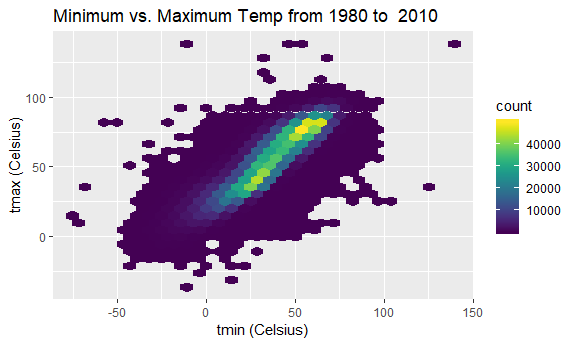
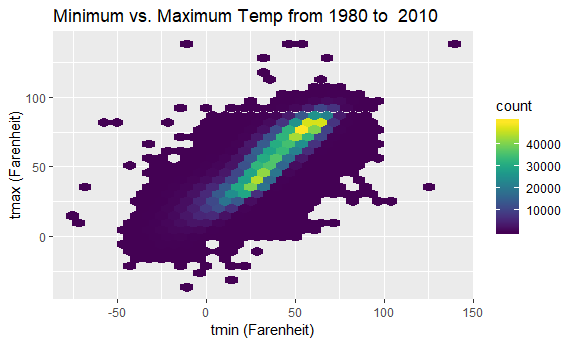
used kable for tables

Changed region(s): [[0.0, 0.3188, 0.0625, 0.6377], [0.3438, 0.9275, 0.5625, 0.9855]]

diff --git a/p8105_hw3_al3851.md b/p8105_hw3_al3851.md
@@ -1,5 +1,7 @@
-p8105\_hw3\_al3851.Rmd
+p8105 HW 3
 ================
+Alina Levine
+2018-10-16
 
 Problem 1
 =========
@@ -11,6 +13,7 @@ library(ggplot2)
 library(tidyverse)
 library(scales)
 library(ggrepel)
+library(viridis)
 
 
 knitr::opts_chunk$set(
@@ -48,18 +51,7 @@ locations_sum_df = brfss_df %>%
 filter(locations_sum_df, n_locations == 7)
 ```
 
-    ## # A tibble: 7 x 2
-    ##   state n_locations
-    ##   <chr>       <int>
-    ## 1 CT              7
-    ## 2 MT              7
-    ## 3 NH              7
-    ## 4 NM              7
-    ## 5 OR              7
-    ## 6 TN              7
-    ## 7 UT              7
-
-CT, MT, NH, NM, OR, TN, and Utah all had responses from 7 locations. 7 locations was the mode of the number of locations per state.
+CT, MT, NH, NM, OR, TN, and UT all had responses from 7 locations. 7 locations was the mode of the number of locations per state.
 
 Spaghetti Plot
 ==============
@@ -82,7 +74,7 @@ ggplot(locations_df, aes(x = year, y = n_observations, color = state)) +
 
 <img src="p8105_hw3_al3851_files/figure-markdown_github/Spaghetti-1.png" width="90%" />
 
-This Spaghetti Plot shows that Florida was an outlier in the number of locations in 2007 and 2010, when there were huge jumps in the number of locations reporting in Florida.
+This spaghetti plot shows that Florida was an outlier in the number of locations in 2007 and 2010. During these years, there were huge jumps in the number of locations reporting in Florida.In 2007 there was a huge fall in the number of locations after the huge jump.
 
 Excellent Table
 ===============
@@ -94,14 +86,22 @@ brfss_excellent_tab = brfss_df %>%
   filter(year %in% c(2002,2006, 2010), state == "NY", response == "Excellent") %>%
   group_by(year) %>%
   summarize(mean = mean(data_value), sd = sd(data_value))
+
+knitr::kable(brfss_excellent_tab)
 ```
+
+|  year|      mean|        sd|
+|-----:|---------:|---------:|
+|  2002|  24.04000|  4.486424|
+|  2006|  22.53333|  4.000833|
+|  2010|  22.70000|  3.567212|
 
 The mean proportion of excellent responses decreased from 2002 to 2006, but then it was about the same in 2010 as in 2002. However, the standard deviation is larger than the difference in mean between 2002 and 2006.
 
 Average Proportion
 ==================
 
-I am rotating the axis labels, so the years do not intersect
+I am creating a dataframe that has the mean proportion for each response category grouped by year and state. When I plot these mean proportions with respect to year, I am rotating the axis labels, so the years do not intersect
 
 ``` r
 brfss_prop_av = brfss_df %>%
@@ -112,15 +112,15 @@ ggplot(brfss_prop_av, aes( x = year, y = mean_prop, color = state)) +
   geom_line() +
   facet_grid(~response) +
   labs(title = "Mean Proportions by Category",
-       x = "year",
-       y = "mean proportion") +
+       x = "Year",
+       y = "Mean Proportion") +
   scale_color_discrete(guide = FALSE) +
   scale_x_continuous(breaks = scales::pretty_breaks(n = 4)) +
   theme(panel.margin = unit(1, "cm")) +
   theme(axis.text.x = element_text(angle = 60, hjust = 1))
 ```
 
-<img src="p8105_hw3_al3851_files/figure-markdown_github/average proportion-1.png" width="90%" /> Scores at least as high as good were more common than fair and poor scores. Very good tended to be the most popular. Excellent and very good scores also had the most variability.
+<img src="p8105_hw3_al3851_files/figure-markdown_github/average proportion-1.png" width="90%" /> Scores at least as high as good were more common than fair and poor scores. Very good tended to be the most popular. Excellent and very good scores also had the most variability in mean proportion. Poor scores tended to have the least variability.
 
 Problem 2
 =========
@@ -131,10 +131,10 @@ instacart_df = instacart
 
 There are 1384617 rows and 15 columns. Each observation is identified by the columns order\_id and product\_id, so each observation is a particular order of a particular product. Some key variables give information about when an order was made. For example , there is a variable for the day of the week which has values 0-6 (sunday-saturday), the hour of the day, as well as the number of days since the last order, for each product in an order. Aside from information about order timing, there are variables about the product. For example, one variable gives the name of the product and another gives the department of the product.
 
-Popular Aisle
-=============
+Popular Aisles
+==============
 
-I am filtering by aisle\_id to get the number of items orderd in each aisle
+I am filtering by aisle\_id to get the number of items ordered in each aisle
 
 ``` r
 n_aisles = length(unique(instacart$aisle))
@@ -146,17 +146,20 @@ aisle_table = instacart_df %>%
 
 aisle_table_order = aisle_table %>%
   arrange(desc(n_items))
-  
 
+  
 ggplot(aisle_table, aes(x = aisle_id, y = n_items, color = department)) +
   geom_point(stat = "identity") + 
-  geom_text_repel(data = head(aisle_table_order,10), aes(x = aisle_id, y = n_items, label = aisle)) +
-  theme(legend.position = "bottom")
+  geom_text_repel(data = head(aisle_table_order, 10), aes(x = aisle_id, y = n_items, label = aisle)) +
+  theme(legend.position = "bottom") +
+  labs(title = "Number of Items Per Aisle",
+       x = "Aisle Number",
+       y = "Number of Items")
 ```
 
 <img src="p8105_hw3_al3851_files/figure-markdown_github/popular items-1.png" width="90%" />
 
-There are 134 aisles. I labeled the most popular items, since too many labels would make the plot impossible to read. I also ordered by aisle number because there was no way to put aisle name on the axis. I colored by department. Popular aisles were fresh fruits and fresh vegetables and packaged vegetables and fruits.
+There are 134 aisles. The most popular item is fresh vegetables. On the aisle items plot, I labeled the most popular items, since too many labels would make the plot impossible to read. I also ordered by aisle number because there was no way to put aisle name on the axis, so at least there is a way to identify aisles that are not labeled. I colored by department. Departments containing the aisles with the most popular items were produce and dairy.
 
 Popular Items
 =============
@@ -173,7 +176,15 @@ item_count = instacart_df %>%
   filter(product_count == max(product_count)) %>%
   distinct(product_id, .keep_all = TRUE) %>%
   select(aisle, product_name, product_count)
+
+knitr::kable(item_count)
 ```
+
+| aisle                      | product\_name                                 |  product\_count|
+|:---------------------------|:----------------------------------------------|---------------:|
+| packaged vegetables fruits | Organic Baby Spinach                          |            9784|
+| baking ingredients         | Light Brown Sugar                             |             499|
+| dog food care              | Snack Sticks Chicken & Rice Recipe Dog Treats |              30|
 
 Organic baby spinach is the most popular item of these most popular items in these three isles with 9784 orders.
 
@@ -192,9 +203,16 @@ mean_hour_df = instacart_df %>%
   mutate(order_dow = recode(order_dow, "0" = "Sunday", "1" = "Monday", "2" = "Tuesday", "3" = "Wednesday", "4" = "Thursday", "5" = "Friday", "6" = "Saturday")) %>%
   spread(key = order_dow, value = mean_hour) %>%
   select(product_name, "Sunday", "Monday", "Tuesday","Wednesday", "Thursday", "Friday", "Saturday", "Sunday")
+
+knitr::kable(mean_hour_df)
 ```
 
-The mean hour for every day of the week late morning - early afternoon. The mean hours are similar over the weekend for the two products but they differ by at least three hours on Monday, Tuesday, and Thursday. Coffee ice cream is ordered much later than Pink Lady Apple on those days.
+| product\_name    |    Sunday|    Monday|   Tuesday|  Wednesday|  Thursday|    Friday|  Saturday|
+|:-----------------|---------:|---------:|---------:|----------:|---------:|---------:|---------:|
+| Coffee Ice Cream |  13.77419|  14.31579|  15.38095|   15.31818|  15.21739|  12.26316|  13.83333|
+| Pink Lady Apples |  13.44118|  11.36000|  11.70213|   14.25000|  11.55172|  12.78431|  11.93750|
+
+The mean order hour for every day of the week was late morning to early afternoon. The mean hours are similar over the weekend for the two products but they differ by at least three hours on Monday, Tuesday, and Thursday. Coffee ice cream is ordered much later than Pink Lady Apple on those days.
 
 Problem 3
 =========
@@ -209,22 +227,24 @@ ny_noaa_df = ny_noaa %>%
   mutate(year = lubridate::year(date),
          month = lubridate::month(date),
          day = lubridate::day(date)) %>%
-  mutate(tmin = as.numeric(tmin) / 10 * (9/5) + 32, tmax = as.numeric(tmax) / 10 * (9/5) + 32) %>%
+  mutate(tmin = as.numeric(tmin) / 10 * (9 / 5) + 32, tmax = as.numeric(tmax) / 10 * (9 / 5) + 32) %>%
   mutate(snwd = (as.numeric(snwd) / 10) / 2.54, snow = (as.numeric(snow) / 10) / 2.54) %>%
-  mutate(prcp = (as.numeric(prcp) / 100) / 2.54)
+  mutate(prcp = (as.numeric(prcp) / 100) / 2.54) %>%
+  mutate(snow = ifelse(snow < 0, NA, snow))
 
-apply(ny_noaa_df, MARGIN = 2, FUN = function(x){sum(is.na(x))/nrow(ny_noaa_df)})
+apply(ny_noaa_df, MARGIN = 2, FUN = function(x){sum(is.na(x)) / nrow(ny_noaa_df)})
 
 ggplot(ny_noaa_df, aes(x = snow)) +
   geom_histogram(bins = 500) +
-  scale_x_continuous(limits = c(0, 100), breaks = scales::pretty_breaks(n = 15)) +
-  scale_y_continuous(limits = c(0, 50000))
+  scale_x_continuous(limits = c(0, 50), breaks = scales::pretty_breaks(n = 15)) +
+  scale_y_continuous(limits = c(0, 35000)) +
+  labs(title = "NY Snowfall Distribution (1981-2010)")
 ```
 
-<img src="p8105_hw3_al3851_files/figure-markdown_github/ny_noaa cleaning-1.png" width="90%" /> The ny\_noaa dataframe is 2595176 rows by 10. After converting units, the key variables are the station identification number, the date the weather was recorded, the precipitation (inches) recorded, snow depth (inches) recorded, snowfall recorded (inches), minimum temperature(degrees farenheit) and maximum temperature (degrees farenheit). The fact that there is so much missing data may negatively affect any analysis, since so many stations will be unrepresented in plots and calculations for estimates. Temperatures are missing in 44 percent of the stations and snow depth is missing in 23 percent. If it happens to be that weather stations in certain parts of NY, such are as upstate NY, are more likely not to report, the distribution of the variables will not be representative of the state. As shown in the histogram, snowfalls with values between less than one inch are most common. For large snowfalls, there has to be the combination of a strong storm and persisting freezing, so small snow falls are much more common than larger ones.
+<img src="p8105_hw3_al3851_files/figure-markdown_github/ny_noaa cleaning-1.png" width="90%" /> The ny\_noaa dataframe is 2595176 rows by 10. After converting units, the key variables are the station identification number, the date the weather was recorded, the precipitation (inches) recorded, snow depth (inches) recorded, snowfall recorded (inches), minimum temperature(degrees farenheit) and maximum temperature (degrees farenheit). The fact that there is so much missing data may negatively affect any analysis, since so many stations will be unrepresented in plots and calculations for estimates. Temperatures are missing in 44 percent of the stations and snow depth is missing in 23 percent. If it happens to be that weather stations in certain parts of NY, such are as upstate NY, are more likely not to report, the distribution of the variables will not be representative of the state. As shown in the histogram, snowfalls with values between less than one inch are most common. For large snowfalls, there has to be the combination of a strong storm and freezing temperatures, so small snowfalls or no snowfalls at all are much more common than larger ones. It must also be noted that snowfall has one negative value which makes no sense, so I am recoding that to NA.
 
-Average Maximum Temperatures Per Station
-========================================
+Average Maximum Temperatures
+============================
 
 I am grouping by station id, year, and month to get the average maximum temperature for each station in each year in both the months July and January
 
@@ -237,26 +257,28 @@ average_max_df = ny_noaa_df %>%
   mutate(month = as.character(month)) %>%
   mutate(month = recode(month, "1" = "January", "7" = "July"))
 
-  ggplot(average_max_df, aes(x = year, y = average_max, color = month)) +
-    geom_point() +
-    scale_y_continuous(breaks = scales::pretty_breaks(n = 10)) +
-    facet_grid(~month) + 
-    labs(title = "Average Max Temperature by Station from 1981-2010",
-         y = "Average Max Temp (Degrees F)")
+ggplot(average_max_df, aes(x = year, y = average_max, color = month)) +
+  geom_point() +
+  scale_y_continuous(breaks = scales::pretty_breaks(n = 10)) +
+  facet_grid(~month) + 
+  labs(title = "Average Max Temperature by Station from 1981-2010",
+         y = "Average Max Temp (Degrees F)") +
+  theme(panel.margin = unit(1, "cm"))
 ```
 
 <img src="p8105_hw3_al3851_files/figure-markdown_github/temp by station-1.png" width="90%" />
 
 It appears as though average maximum temperatures in January tend to have a larger range each year than average maximum temperatures in July. There is more variability in the average maximum temperatures. It looks like there are chuncks of time where changes in average monthly temperature follow the same pattern in July in August, but there are other chuncks where this is not the case (i.e some years values go up and down together but other times they don't ),so it is unclear whether average max temperature in July and June go hand in hand. There are several outliers over the years. In 1982 there was a station about 7 degrees colder than the next lowest station. In 1888 the average max temperature in July was 7 degrees colder than the next highest. It's important to note that there are 5970 observations that are missing.
 
-``` r
-library(viridis)
+Maximum vs. Minimum Temperatures
+================================
 
+``` r
 ggplot(ny_noaa_df, aes(x = tmin, y = tmax)) +
   geom_hex() +
   labs(title = "Minimum vs. Maximum Temp from 1980 to  2010",
-       x = "tmin (Celsius)",
-       y = "tmax (Celsius)") + 
+       x = "tmin (Farenheit)",
+       y = "tmax (Farenheit)") + 
   scale_fill_viridis()
 ```
 
@@ -264,7 +286,7 @@ ggplot(ny_noaa_df, aes(x = tmin, y = tmax)) +
 
 As expected, t\_max is positively associated with t\_min. The relationship between t\_max and t\_min looks approximately linear. The most densly distributed minimum temperatures occur between about 10 and 60 degrees Farenheit and the most densly distributed maximum temperatures occur between 25 and 80 degrees Farenheit. Some areas of density do not make sense. For example, there is one hexagon where minimum temperature is around -10 degrees Farenheit and the maximum temperature is about 135 degrees Farenheit. I searched for this observation or observations in the dataframe, and a situation like this was recorded on January 28, 2005. How is it possible that a station became so hot and so cold on this day in January?
 
-snowfall
+Snowfall
 ========
 
 ``` r
@@ -272,12 +294,12 @@ ny_noaa_df %>%
   filter(!is.na(snow)) %>%
   filter(snow > 0 & snow < 100) %>%
   ggplot(aes(x = year, y = snow)) +
-  geom_point() +
+  geom_hex(bins = 80) +
   labs(title = "Snowfall between 1981 and 2010",
-       x = "year",
-       y = "snowfall (inches)")
+       x = "Year",
+       y = "Snowfall (inches)")
 ```
 
 <img src="p8105_hw3_al3851_files/figure-markdown_github/snowfall-1.png" width="90%" />
 
-I chose to use geom\_hex for this plot as well because it shows the large concentration of very small snowfalls. With geom\_point, snowfalls of 10 inches looked just as common as snowfalls very close to zero inches. In this plot I made the bins a smaller size, so that years would be separted. This plot shows that snowfall above 35 inches was rare.
+I chose to use geom\_hex for this plot as well because it shows the large concentration of very small snowfalls. With geom\_point, snowfalls of 10 inches looked just as common as snowfalls very close to zero inches. In this plot I made the bins a smaller size, so that years would be separted. This plot shows that snowfalls above 40 inches were rare.
